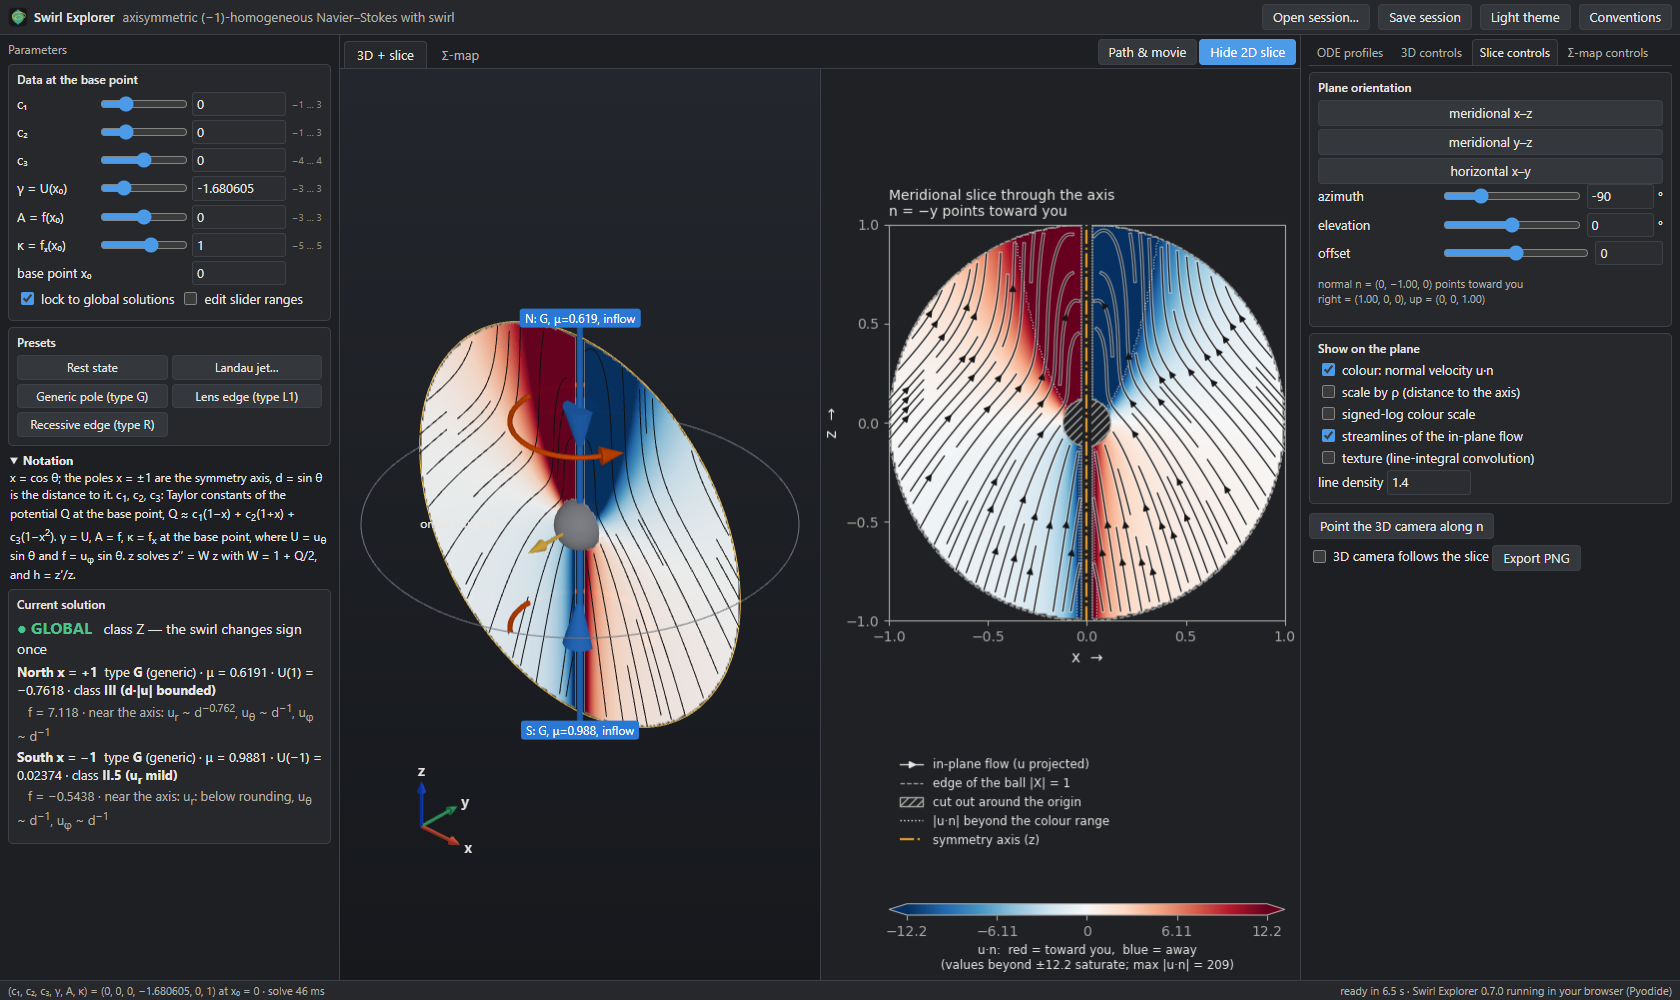
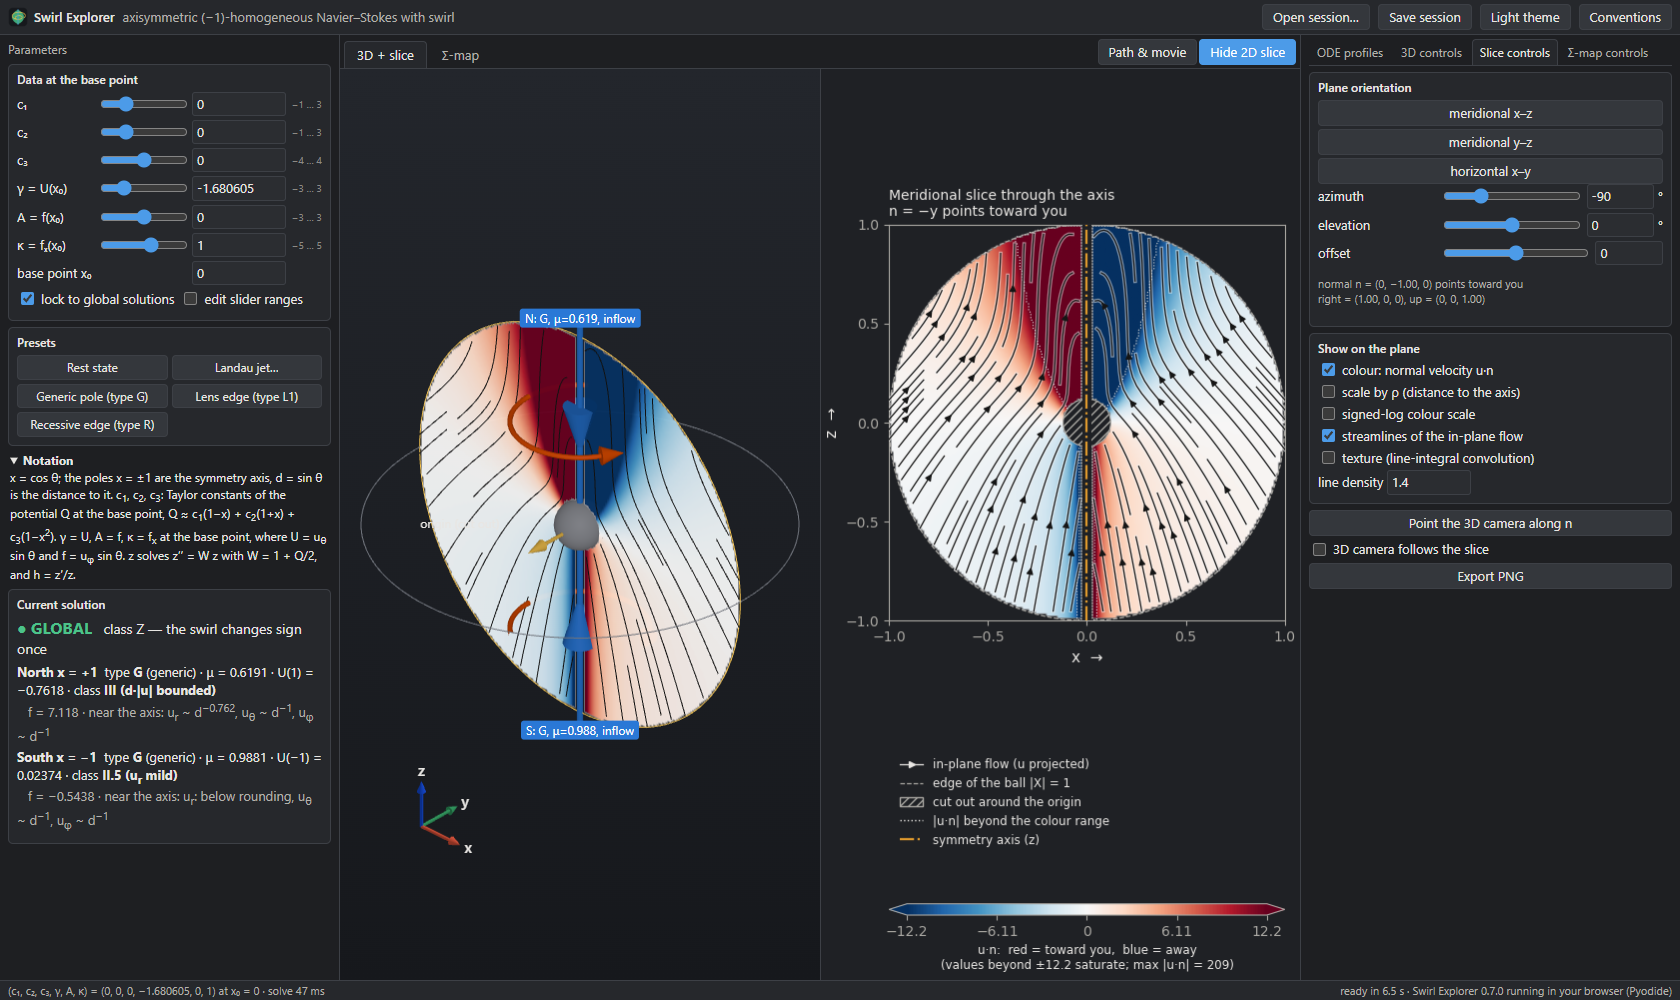
Web version, visual review round 3: shorter path panel, labels kept in view, stacked slice buttons

Changed region(s): [[0.7738, 0.496, 1.0, 0.589]]

diff --git a/site/style.css b/site/style.css
@@ -51,7 +51,7 @@ label.chk { display: inline-flex; gap: 4px; align-items: center; cursor: pointer
 #left { grid-area: left; overflow-y: auto; padding: 4px 8px; border-right: 1px solid var(--border); }
 #center { grid-area: center; display: flex; flex-direction: column; min-width: 0; min-height: 0; }
 #right { grid-area: right; overflow-y: auto; padding: 4px 8px; border-left: 1px solid var(--border); }
-#bottom { grid-area: bottom; border-top: 1px solid var(--border); padding: 2px 8px 6px; height: 250px; }
+#bottom { grid-area: bottom; border-top: 1px solid var(--border); padding: 2px 8px 6px; height: min(250px, 31vh); }
 #pa-events { overflow-y: auto; min-height: 0; flex: 1; }
 .path-right { overflow: hidden; }
 .sep { color: var(--faint); }
@@ -122,7 +122,8 @@ label.chk { display: inline-flex; gap: 4px; align-items: center; cursor: pointer
 #profiles-img { width: 100%; display: block; margin-top: 4px; }
 .legend { font-size: 12px; } .legend div { margin: 2px 0; }
 .legend .sw { display: inline-block; width: 10px; height: 10px; margin-right: 1px; vertical-align: -1px; }
-#right .rpage > button { margin: 3px 0; }
+#right .rpage > button, #right .rpage > label.chk { display: flex; width: 100%; margin: 4px 0; }
+#right .rpage > button { justify-content: center; }
 
 /* path dock */
 .path-body { display: flex; gap: 10px; height: calc(100% - 24px); }
@@ -136,7 +137,7 @@ label.chk { display: inline-flex; gap: 4px; align-items: center; cursor: pointer
 #pa-table tr.sel td { background: var(--accent); color: #fff; }
 #pa-table .const { color: var(--faint); }
 #pa-timeline { width: 100%; height: 80px; cursor: pointer; }
-#pa-events a { color: var(--accent); cursor: pointer; }
+#pa-events a { color: var(--accent); cursor: pointer; text-decoration: underline; }
 #pa-frame, #pa-events { margin: 2px 0; }
 
 /* loading + dialogs */

diff --git a/site/app.js b/site/app.js
@@ -327,7 +327,8 @@ function updateSigmaExplain() {
   $("sg-explain").innerHTML = S.info.sigma_explain[S.sigma.mode] + S.info.sigma_click;
   $("sg-mu-wrap").hidden = S.sigma.mode === "mu";
   const p = S.params, others = NAMES.filter((n) => n !== S.sigma.x_name && n !== S.sigma.y_name);
-  $("sg-fixed").textContent = `Fixed at the current solution: ${others.map((n) => `${label(n)} = ${fmt(p[n], 4)}`).join(",  ")},  x₀ = ${p.xb}`;
+  const nb = (t) => t.replace(/ /g, "\u00a0");          // keep "c₁ = 0" together when the line wraps
+  $("sg-fixed").textContent = `Fixed at the current solution: ${others.map((n) => nb(`${label(n)} = ${fmt(p[n], 4)}`)).join(", ")}, ${nb(`x₀ = ${p.xb}`)}`;
 }
 const label = (n) => S.info.params.find((q) => q.name === n).label;
 

diff --git a/site/index.html b/site/index.html
@@ -144,7 +144,7 @@
         <p class="muted small">Arrows and isosurfaces are in the desktop app only.</p>
       </section>
       <section class="group">
-        <h3>Slice plane (see Slice controls)</h3>
+        <h3>Slice plane (its controls appear with Show 2D slice)</h3>
         <label class="chk" title="the plane coloured by u·n with its in-plane streamlines"><input id="s-show_slice" type="checkbox"> show the slice plane here</label>
       </section>
       <section class="group">

diff --git a/site/view3d.js b/site/view3d.js
@@ -417,6 +417,10 @@ export class View3D {
       d.style.left = `${L.screen ? L.screen[0] : ((v.x + 1) / 2) * w}px`;
       d.style.top = `${L.screen ? L.screen[1] : ((1 - v.y) / 2) * h}px`;
       if (d.textContent !== L.text) d.textContent = L.text;
+      if (!L.screen && !off) {
+        const half = d.offsetWidth / 2, x = ((v.x + 1) / 2) * w;
+        d.style.left = `${Math.max(half + 2, Math.min(w - half - 2, x))}px`;
+      }
     });
   }
 
